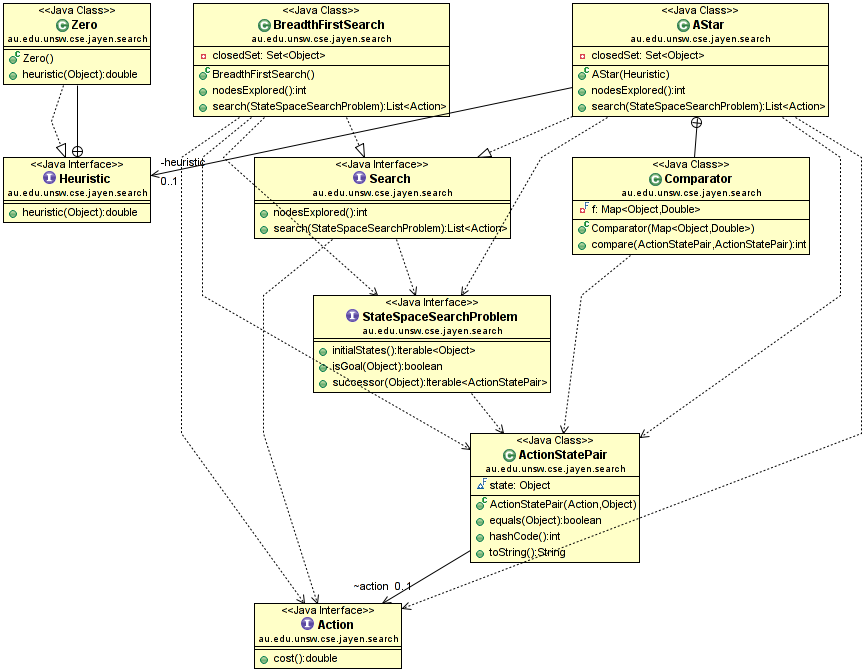
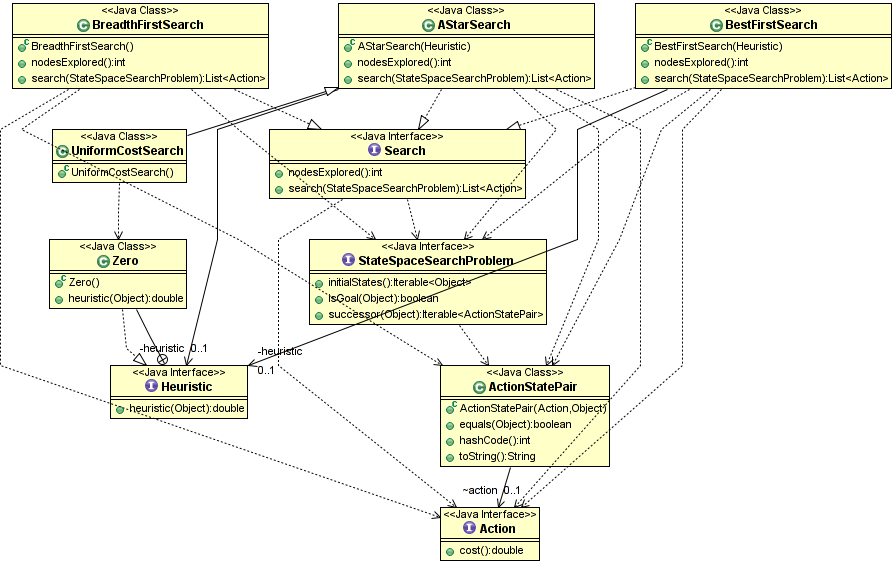
best first search and uniform cost search

diff --git a/src/au/edu/unsw/cse/jayen/search/BestFirstSearch.java b/src/au/edu/unsw/cse/jayen/search/BestFirstSearch.java
@@ -1,0 +1,121 @@
+package au.edu.unsw.cse.jayen.search;
+
+import java.util.ArrayList;
+import java.util.Collections;
+import java.util.HashMap;
+import java.util.HashSet;
+import java.util.List;
+import java.util.Map;
+import java.util.Queue;
+import java.util.Set;
+
+/**
+ * implements the best-first search algorithm
+ * 
+ * @author jayen
+ */
+public class BestFirstSearch implements Search {
+
+   /**
+    * used by a priority queue in best-first to compare h scores
+    * 
+    * @author jayen
+    */
+   private class Comparator implements java.util.Comparator<ActionStatePair> {
+      /**
+       * the table of h scores
+       */
+      private final Map<Object, Double> h;
+
+      /**
+       * @param h
+       *           the table of h scores
+       */
+      public Comparator(final Map<Object, Double> h) {
+         this.h = h;
+      }
+
+      /*
+       * (non-Javadoc)
+       * 
+       * @see java.util.Comparator#compare(java.lang.Object, java.lang.Object)
+       */
+      @Override
+      public int compare(final ActionStatePair o1, final ActionStatePair o2) {
+         final double diff = h.get(o1.state) - h.get(o2.state);
+         if (diff < 0)
+            return -1;
+         if (diff > 0)
+            return 1;
+         return 0;
+      }
+   }
+
+   // This would be faster if I stored visited in State, but that's bad design
+   /**
+    * the set of expanded states
+    */
+   private Set<Object> closedSet;
+   /**
+    * the heuristic used by best-first
+    */
+   private final Heuristic heuristic;
+
+   /**
+    * @param heuristic
+    *           the heuristic to be used by best-first
+    */
+   public BestFirstSearch(final Heuristic heuristic) {
+      this.heuristic = heuristic;
+   }
+
+   /*
+    * (non-Javadoc)
+    * 
+    * @see Search#nodesExplored()
+    */
+   @Override
+   public int nodesExplored() {
+      return closedSet.size();
+   }
+
+   /*
+    * (non-Javadoc)
+    * 
+    * @see Search#search(StateSpaceSearchProblem)
+    */
+   @Override
+   public List<Action> search(final StateSpaceSearchProblem sssp) {
+      final Map<Object, Double> h = new HashMap<Object, Double>();
+      final Map<ActionStatePair, ActionStatePair> parent = new HashMap<ActionStatePair, ActionStatePair>();
+      final Queue<ActionStatePair> openSet = new PQueue<ActionStatePair>(1,
+            new Comparator(h));
+      closedSet = new HashSet<Object>();
+      for (final Object state : sssp.initialStates()) {
+         final double h2 = heuristic.heuristic(state);
+         h.put(state, h2);
+         openSet.add(new ActionStatePair(null, state));
+      }
+      while (!openSet.isEmpty()) {
+         ActionStatePair current = openSet.remove();
+         closedSet.add(current.state);
+         if (sssp.isGoal(current.state)) {
+            final List<Action> path = new ArrayList<Action>();
+            for (; current.action != null; current = parent.get(current))
+               path.add(current.action);
+            Collections.reverse(path);
+            return path;
+         }
+         for (final ActionStatePair neighbor : sssp.successor(current.state)) {
+            if (closedSet.contains(neighbor.state))
+               continue;
+            if (!openSet.contains(neighbor)) {
+               h.put(neighbor.state, heuristic.heuristic(neighbor.state));
+               parent.put(neighbor, current);
+               openSet.add(neighbor);
+            }
+         }
+      }
+      return null;
+   }
+}

diff --git a/src/au/edu/unsw/cse/jayen/search/UniformCostSearch.java b/src/au/edu/unsw/cse/jayen/search/UniformCostSearch.java
@@ -1,0 +1,7 @@
+package au.edu.unsw.cse.jayen.search;
+
+public class UniformCostSearch extends AStarSearch {
+   public UniformCostSearch() {
+      super(new Heuristic.Zero());
+   }
+}
